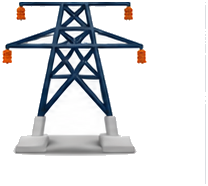
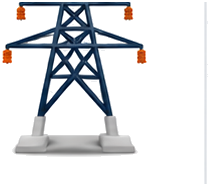
Page 5: level the equipment, key the tower properly, drop the MSEB bracket
Four things he asked for, and one of them was the real cause of the arrows never
quite landing.

1. THE TOWER'S WHITE PLATE WAS STILL THERE. My previous key only flood-filled the
   outside of the drawing - the white inside the lattice work survived, so the
   pylon still sat on a white rectangle. The white is now keyed out everywhere in
   the crop, inside and out, and the asset is genuinely transparent.

2. EVERY PIECE OF EQUIPMENT IS NOW THE SAME HEIGHT. This is what he was really
   pointing at with 'sabhi equipment ki height same kar do': each node carried its
   own max-height, so the panel was 72px, the meter 68 and the grid 74 - no shared
   centre for the links to sit on, which is why they looked a bit high or low no
   matter what margin I picked. One 78px art box, every drawing scaled to fit it,
   nothing stretched. The links now centre on that box's middle (0.5px off).

3. THE GRID LABEL IS 'MSEDCL' - the (MSEB) bracket is gone from the content.

4. The note keeps its extra clearance.

qa/page56-marks.test.cjs: 47 checks. The height test now also asserts that every
per-node cap fits inside the shared box, which is the property that keeps the row
level.

diff --git a/assets/css/proposal-v2.css b/assets/css/proposal-v2.css
@@ -153,17 +153,22 @@
 .pv2 .pv2-node.is-grid{width:84px;}
 /* One art height for every node, so the equipment sits on a single line and the
    images are drawn at their natural size instead of being stretched. */
-.pv2 .pv2-node-art{height:86px;width:100%;display:flex;align-items:flex-end;justify-content:center;margin-bottom:8px;}
+/* EVERY piece of equipment is drawn in the same 78px-tall box, scaled to fit it.
+   That is what makes the row read as one line: before this each node had its own
+   max-height, so the panel stood 72px tall while the meter stood 68 and the links
+   had no single centre to sit on. One height means one centre, so the arrows are
+   exactly between the boxes instead of a bit above or below them. */
+.pv2 .pv2-node-art{height:78px;width:100%;display:flex;align-items:flex-end;justify-content:center;margin-bottom:8px;}
 .pv2 .pv2-node-art img{max-width:100%;max-height:100%;width:auto;height:auto;object-fit:contain;display:block;
-  filter:drop-shadow(0 3px 4px rgba(20,38,58,.12));}
-.pv2 .pv2-node.is-panel img{max-height:72px;}
-.pv2 .pv2-node.is-box img{max-height:58px;}
-.pv2 .pv2-node.is-inv img{max-height:76px;}
-.pv2 .pv2-node.is-house img{max-height:64px;}
-.pv2 .pv2-node.is-meter img{max-height:68px;}
-/* the tower is a wide drawing (218x190), so it is bounded by height only -
-   forcing a width on it is what squashed it */
-.pv2 .pv2-node.is-grid img{max-height:74px;max-width:86px;}
+  filter:drop-shadow(0 2px 3px rgba(20,38,58,.14));}
+/* the wide drawings get the full box; the tall ones are bounded by height only,
+   so nothing is ever stretched - contain keeps every aspect ratio */
+.pv2 .pv2-node.is-panel img{max-height:78px;}
+.pv2 .pv2-node.is-box img{max-height:62px;}
+.pv2 .pv2-node.is-inv img{max-height:78px;}
+.pv2 .pv2-node.is-house img{max-height:66px;}
+.pv2 .pv2-node.is-meter img{max-height:74px;}
+.pv2 .pv2-node.is-grid img{max-height:76px;max-width:88px;}
 .pv2 .pv2-node b{font:700 10.5px/1.25 'Poppins','Inter',sans-serif;color:var(--pv2-navy);}
 .pv2 .pv2-node small{font-size:9.5px;line-height:1.3;color:#4A5565;margin-top:1px;white-space:nowrap;}
 
@@ -174,7 +179,7 @@
    height of the captions plus half the art. 68px puts the link's centre on the
    equipment's centre - at 46px it sat down among the captions, which is what he
    kept seeing. */
-.pv2 .pv2-arrow{flex:0 0 28px;width:28px;display:flex;align-items:center;justify-content:center;margin-bottom:68px;}
+.pv2 .pv2-arrow{flex:0 0 28px;width:28px;display:flex;align-items:center;justify-content:center;margin-bottom:65px;}
 .pv2 .pv2-arrow svg{display:block;}
 .pv2 .pv2-arrow.is-both svg{width:26px;height:20px;}
 

diff --git a/assets/js/content.js b/assets/js/content.js
@@ -145,7 +145,7 @@ const CONTENT = {
       inverter: 'Inverter',
       ac: 'AC',
       meter: 'Bi-Directional Meter',
-      grid: 'MSEDCL (MSEB)',
+      grid: 'MSEDCL',
       home: 'Your Property',
       arrayValue: '{moduleCount} × {moduleWattage} Wp modules',
       inverterValue: '{inverterRating}',
